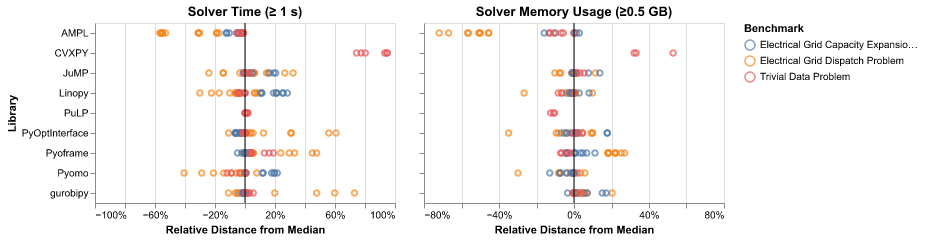
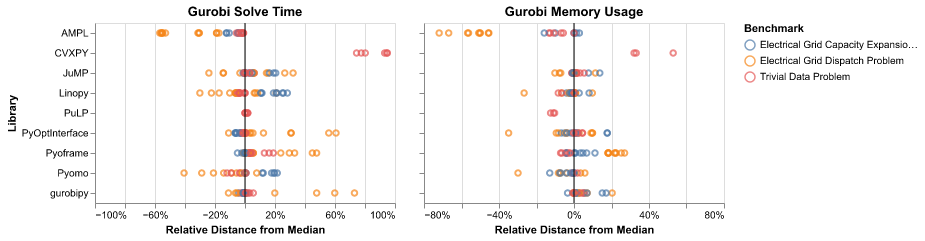
Update figure title

Changed region(s): [[0.5146, 0.029, 0.7265, 0.0871], [0.1816, 0.029, 0.333, 0.0871]]

diff --git a/benchmarks/process_results.py b/benchmarks/process_results.py
@@ -265,7 +265,7 @@ def _(
     )
     _df = _df.sort("type", descending=True)
     _plt = None
-    TITLES = {"time": "Solver Time (≥ 1 s)", "memory": "Solver Memory Usage (≥0.5 GB)"}
+    TITLES = {"time": "Gurobi Solve Time", "memory": "Gurobi Memory Usage"}
 
     for (_type,), _df_panel in _df.group_by("type", maintain_order=True):
         _is_left = _type == "time"
